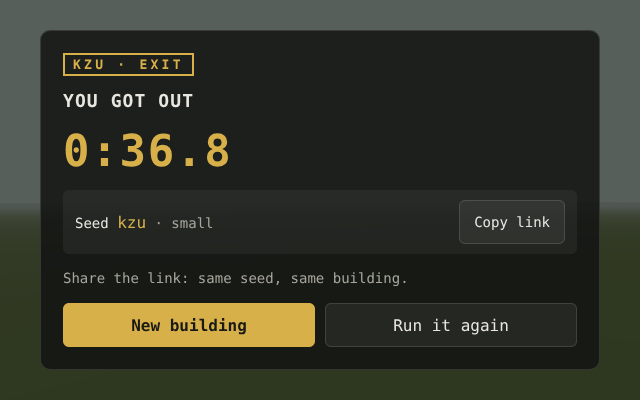
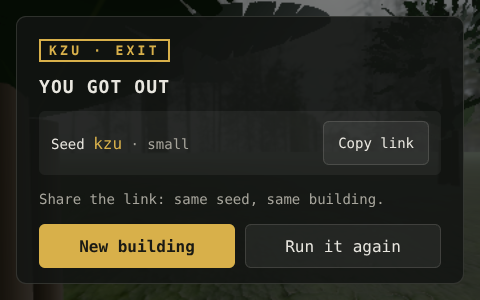
e2e: budgets for the multi-floor escape on CPU-rendered CI; refreshed smoke screenshots
Claude-Session: https://claude.ai/code/session_01FXBF7m3vSii76HQuaboH2f

diff --git a/e2e/smoke.spec.ts b/e2e/smoke.spec.ts
@@ -14,8 +14,9 @@ const ready = (page: Page) => page.waitForFunction(() => (window as unknown as {
 // CI renders on the CPU: use light presets so frames come back in reasonable time.
 
 test('loads a fixed seed, enters the building, no console errors', async ({ page }, info) => {
+  test.setTimeout(300_000);
   const errors = watchErrors(page);
-  await page.goto('/?seed=kzu&size=small&quality=low');
+  await page.goto('/?seed=kzu&size=small&quality=battery');
   await ready(page);
   await expect(page.locator('#btn-enter')).toBeVisible();
   await page.screenshot({ path: `docs/screenshots/${info.project.name}-title.png` });
@@ -50,15 +51,16 @@ test('same seed builds the same level in the browser', async ({ page }) => {
 
 test('autopilot escapes a small building and sees the win screen', async ({ page }, info) => {
   test.skip(info.project.name !== 'desktop', 'one full run is enough');
-  test.setTimeout(300_000);
+  test.setTimeout(720_000);
   const errors = watchErrors(page);
   // Software rendering in CI is slow and sim time is capped per frame: keep the canvas small.
-  await page.setViewportSize({ width: 640, height: 400 });
+  await page.setViewportSize({ width: 480, height: 300 });
   await page.goto('/?seed=kzu&size=small&quality=battery');
   await ready(page);
   await page.click('#btn-enter');
   await page.evaluate(() => ((window as any).__game.game.autopilot.active = true));
-  await page.waitForFunction(() => (window as any).__game.game.state === 'won', null, { timeout: 280_000, polling: 1000 });
+  // Two floors: down the stairs and across the ground floor.
+  await page.waitForFunction(() => (window as any).__game.game.state === 'won', null, { timeout: 700_000, polling: 2000 });
   await expect(page.getByText('You got out')).toBeVisible();
   await page.screenshot({ path: `docs/screenshots/${info.project.name}-win.png` });
   expect(errors).toEqual([]);
